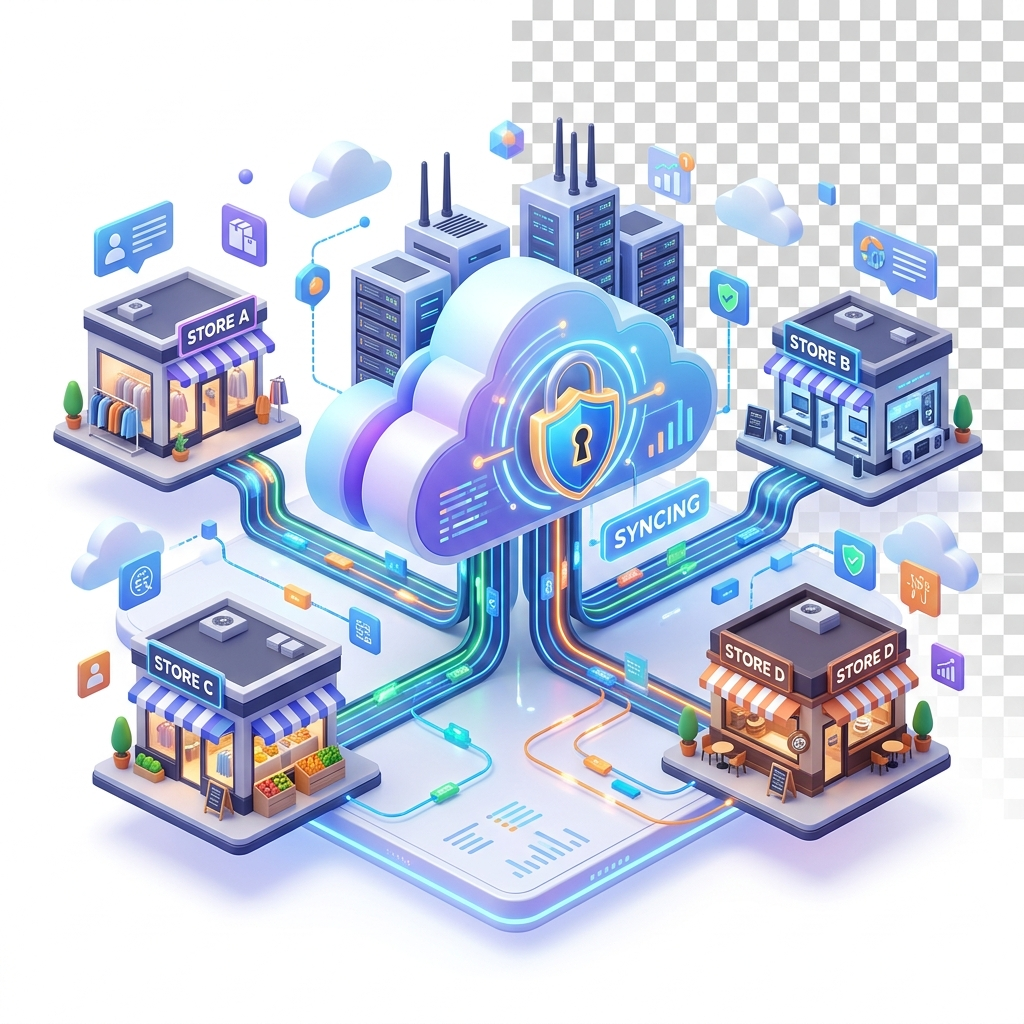
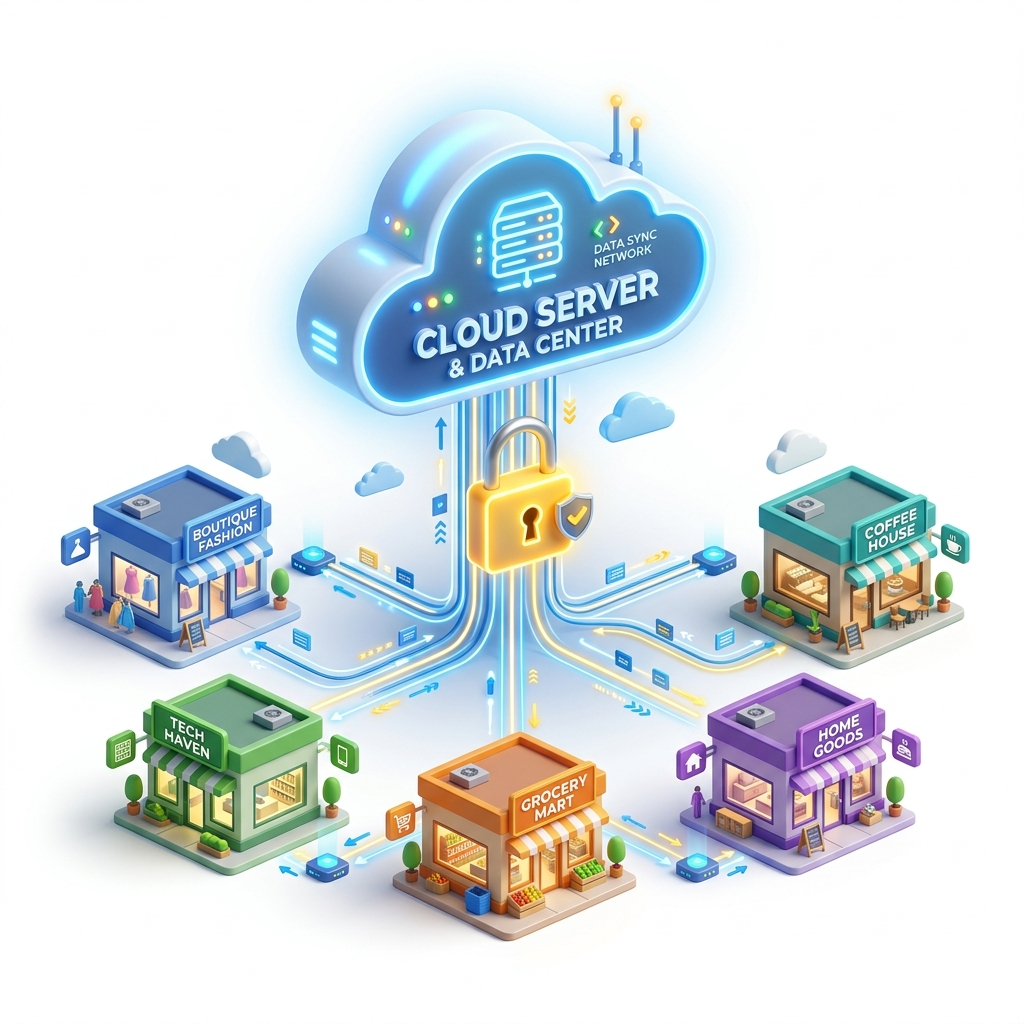
feat: integrate custom image styles for landing page and pricing section

diff --git a/src/app/globals.css b/src/app/globals.css
@@ -775,3 +775,36 @@ button {
   .features-grid { grid-template-columns: 1fr; }
   .footer-content { flex-direction: column; gap: 1rem; text-align: center; }
 }
+
+/* Custom Image Integrations */
+.custom-illustration {
+  border-radius: 24px;
+  box-shadow: 0 20px 40px -10px rgba(0, 0, 0, 0.15);
+  border: 1px solid rgba(0, 0, 0, 0.05);
+  transform: translateY(0);
+  transition: transform 0.4s cubic-bezier(0.4, 0, 0.2, 1), box-shadow 0.4s cubic-bezier(0.4, 0, 0.2, 1);
+  background: white;
+  width: 100%;
+  max-width: 500px;
+  display: block;
+  margin: 0 auto;
+}
+.custom-illustration:hover {
+  transform: translateY(-10px);
+  box-shadow: 0 30px 60px -15px rgba(0, 0, 0, 0.25);
+}
+
+.pricing-icon-custom {
+  width: 80px;
+  height: 80px;
+  border-radius: 50%;
+  object-fit: cover;
+  box-shadow: 0 10px 25px -5px rgba(0, 0, 0, 0.1);
+  border: 2px solid rgba(255, 255, 255, 0.5);
+  background: white;
+  transition: transform 0.3s ease;
+}
+.pricing-item-regular:hover .pricing-icon-custom,
+.pricing-item-pro:hover .pricing-icon-custom {
+  transform: scale(1.1) rotate(5deg);
+}

diff --git a/src/app/page.js b/src/app/page.js
@@ -90,7 +90,7 @@ export default function LandingPage() {
                 </div>
                 <div className="col-lg-6">
                   <div className="right-image wow fadeInRight" data-wow-duration="1s" data-wow-delay="0.5s">
-                    <img src="assets/images/slider-dec.png" alt="" />
+                    <img src="assets/images/slider-dec.png" alt="" className="custom-illustration" />
                   </div>
                 </div>
               </div>
@@ -202,7 +202,7 @@ export default function LandingPage() {
             </div>
             <div className="col-lg-6">
               <div className="right-image">
-                <img src="assets/images/about-right-dec.png" alt="" />
+                <img src="assets/images/about-right-dec.png" alt="" className="custom-illustration" />
               </div>
             </div>
           </div>
@@ -224,7 +224,7 @@ export default function LandingPage() {
                 <span className="price">5,000 Ksh</span>
                 <h4>Starter Retail</h4>
                 <div className="icon">
-                  <img src="assets/images/pricing-table-01.png" alt="" />
+                  <img src="assets/images/pricing-table-01.png" alt="" className="pricing-icon-custom" />
                 </div>
                 <ul>
                   <li>1 Store Branch</li>
@@ -244,7 +244,7 @@ export default function LandingPage() {
                 <span className="price">15,000 Ksh</span>
                 <h4>Business Pro</h4>
                 <div className="icon">
-                  <img src="assets/images/pricing-table-01.png" alt="" />
+                  <img src="assets/images/pricing-table-01.png" alt="" className="pricing-icon-custom" />
                 </div>
                 <ul>
                   <li>Up to 5 Branches</li>
@@ -264,7 +264,7 @@ export default function LandingPage() {
                 <span className="price">30,000 Ksh</span>
                 <h4>Enterprise</h4>
                 <div className="icon">
-                  <img src="assets/images/pricing-table-01.png" alt="" />
+                  <img src="assets/images/pricing-table-01.png" alt="" className="pricing-icon-custom" />
                 </div>
                 <ul>
                   <li>Unlimited Branches</li>